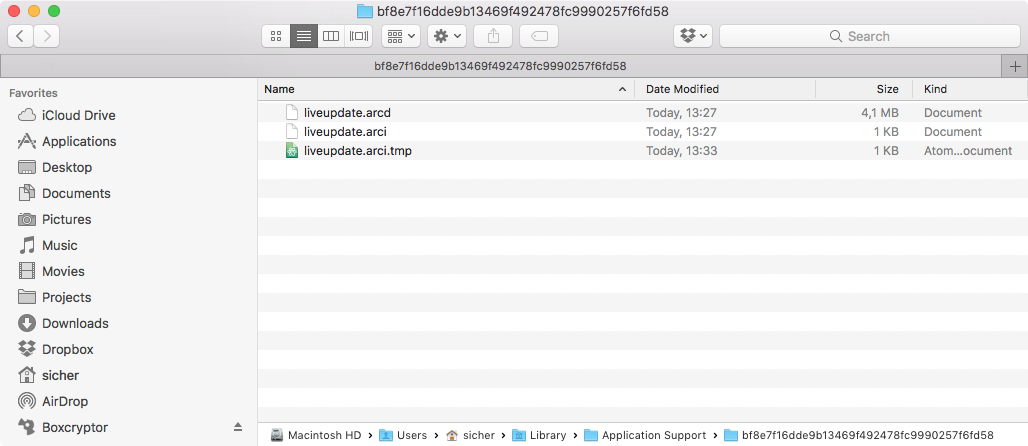
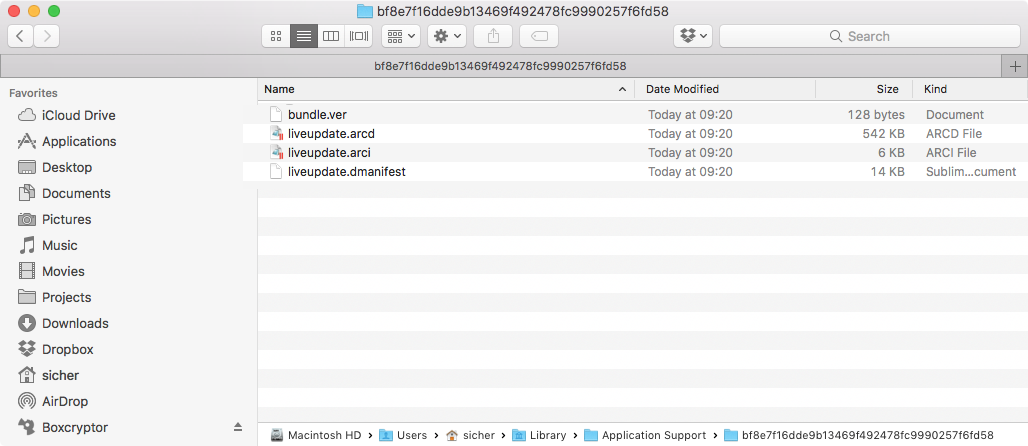
Added app-store update info

Changed region(s): [[0.249, 0.2332, 0.4047, 0.4081], [0.8093, 0.2332, 0.9961, 0.4081], [0.6226, 0.2332, 0.716, 0.4081]]

diff --git a/docs/en/manuals/live-update.md b/docs/en/manuals/live-update.md
@@ -133,15 +133,13 @@ The manifest is an internal data structure that holds a list of all resources in
 
 From the user's perspective, the manifest is a numeric handle, leaving the details of how it's managed to the engine.
 
-[//]: # (::: important)
-[//]: # (Currently, only the initial build manifest is available. The ability to store new manifests is a planned update to the system. This will allow you to modify or add resources to a published game that were not known at build time.)
-[//]: # (:::)
-
 ## Updating the manifest with Live update
 
 With Live update a new manifest can be stored locally at runtime. The local manifest will be used at app startup instead of the one bundled with the application. This is useful for modifying or adding Live update resources to a published game that were not known at build time, without having to publish a full release.
 
-When publishing Live update resources to either Amazon Web Service or to a zip archive, the manifest will be included in that package next to the resources. The name of the manifest file will be `liveupdate.v<game-project-version>.game.dmanifest` were the project version will be fetched from `game.project` at build time.
+When publishing Live update resources to either Amazon Web Service or to a zip archive, the manifest will be included in that package next to the resources. The name of the manifest file will be `liveupdate.game.dmanifest`.
+
+Starting the engine for the first time after a manifest has been stored will create a bundle identifier file `bundle.ver` next to the manifest. This is used to detect whether the bundle has changed since the manifest was stored, for example after a full app store update. If this is the case the stored manifest will be deleted from the filesystem and the newer bundled manifest will be used instead. This means that a full app store update will delete any previously stored manifest. Any existing Live update resources will however remain untouched.
 
 ### Manifest verification
 When storing a new manifest the manifest data will be verified before it is actually written to disk. The verification consists of a number of checks:
@@ -162,10 +160,10 @@ $ openssl genrsa -out private_raw.key 1024
 $ openssl pkcs8 -topk8 -inform pem -in private_raw.key -outform der -nocrypt -out private.der
 $ openssl rsa -in private_raw.key -outform DER -RSAPublicKey_out -pubout -out public.der
 ```
-This will output `private_raw.key` (can be safely deleted), `private.der`, and `public.der`. To use the keys for signing open the Live update settings view and point respective field to the generated keys.
+This will output `private_raw.key` (can be safely deleted), `private.der`, and `public.der`. To use the keys for signing open the Live update settings view and point respective fields to the generated keys.
 
 ### Scripting with Live update manifest
-Addon to the scripting example above, we add the following callback function
+Adding to the scripting example above, we add the following callback function
 
 ```lua
 local function store_manifest_cb(self, status)
@@ -177,7 +175,7 @@ local function store_manifest_cb(self, status)
 end
 ```
 
-and the following to ```on_message``` to handle receiving message ```attempt_download_manifest```:
+and the following to ```on_message``` to handle message ```attempt_download_manifest```:
 
 ```lua
 ...
@@ -200,9 +198,8 @@ end
 
 ### Caveats
 There are a few gotchas that might be good to know if you plan to use this feature to store a new manifest with Live update.
-* It is only possible to add or modify resources to collection proxies that are tagged as `Exclude` in the new manifest. No changes should be made to already bundled resources or resources not in excluded collection proxies. For example, doing changes in a script that is referenced by a bundled collection will cause the resource system to look for that resource in the bundle data archive. But since the game bundle was not shipped with this changed script the resource will not be found and consequently cannot be loaded.
+* It is only possible to add or modify resources referenced by collection proxies that are tagged as `Exclude` in the new manifest. No changes should be made to already bundled resources or resources not in excluded collection proxies. For example, doing changes in a script that is referenced by a bundled collection will cause the resource system to look for that resource in the bundled data archive. But since the shipped game bundle has not changed (only the manifest has) the changed script will not be found and consequently cannot be loaded.
 
-[//]: # (SDFSFGFDGDGFG maybe the one above instead?* It is only possible to add or modify resources referenced by collection proxies that were tagged as `Exclude` in the original bundle. For example, doing changes in a script that is referenced by a collection proxy NOT tagged as `Exclude` will cause the resource system to look for the resource in the bundle. But since the game bundle was not shipped with this changed script the resource will not be found and consequently cannot be loaded.)
 * Even though this feature allows you to quickly push bug fixes or new features to a live game without doing a full app store release, it should be used with care. Pushing out a new manifest should involve the same processes as when doing a full release with everything that that entails (testing, QA, etc.).
 
 ## Setting up Amazon Web Service
